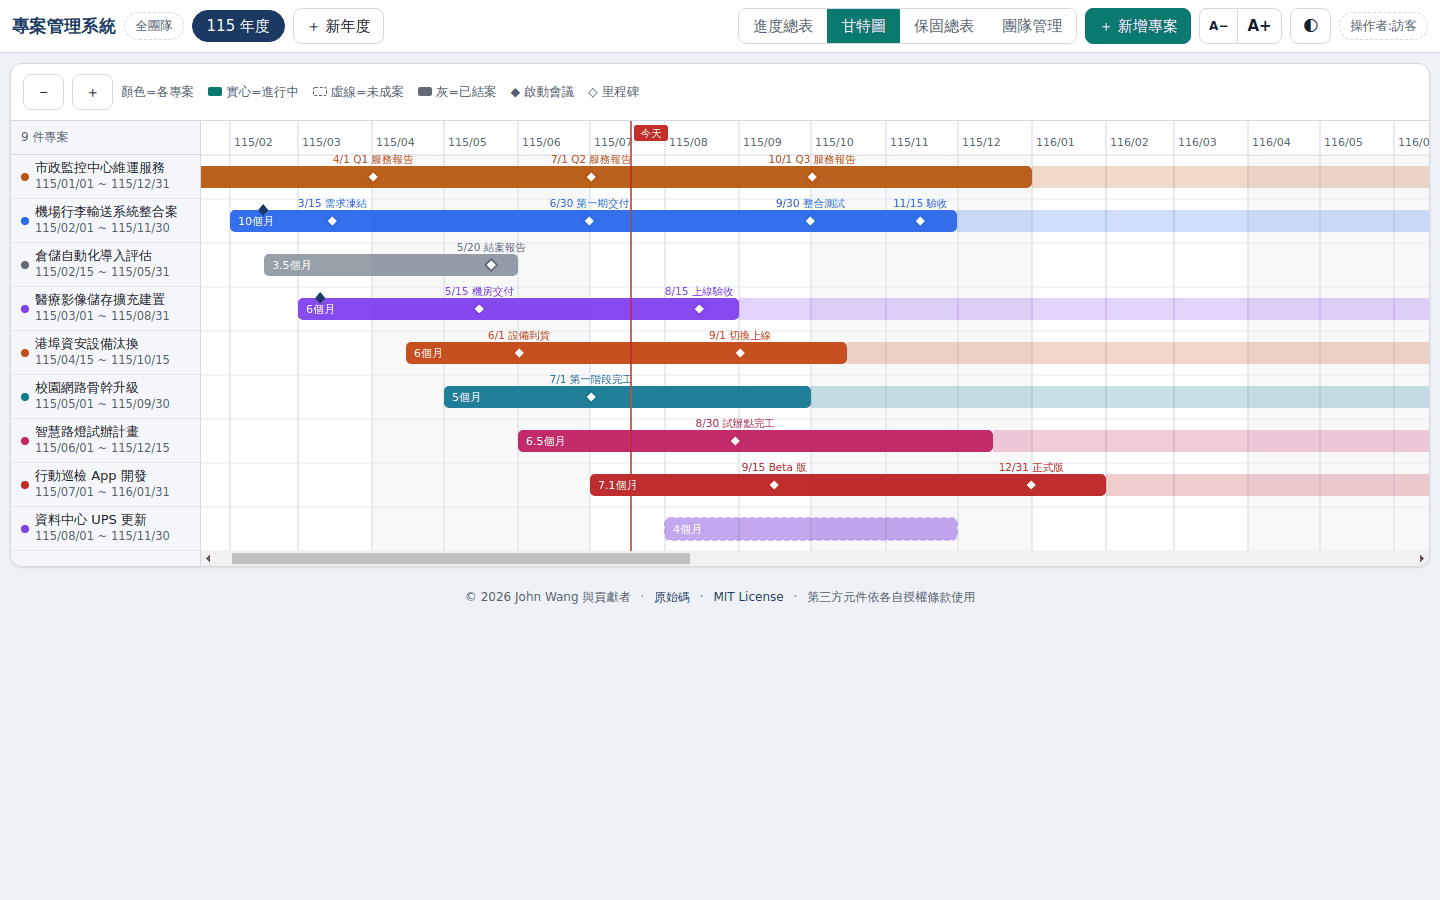
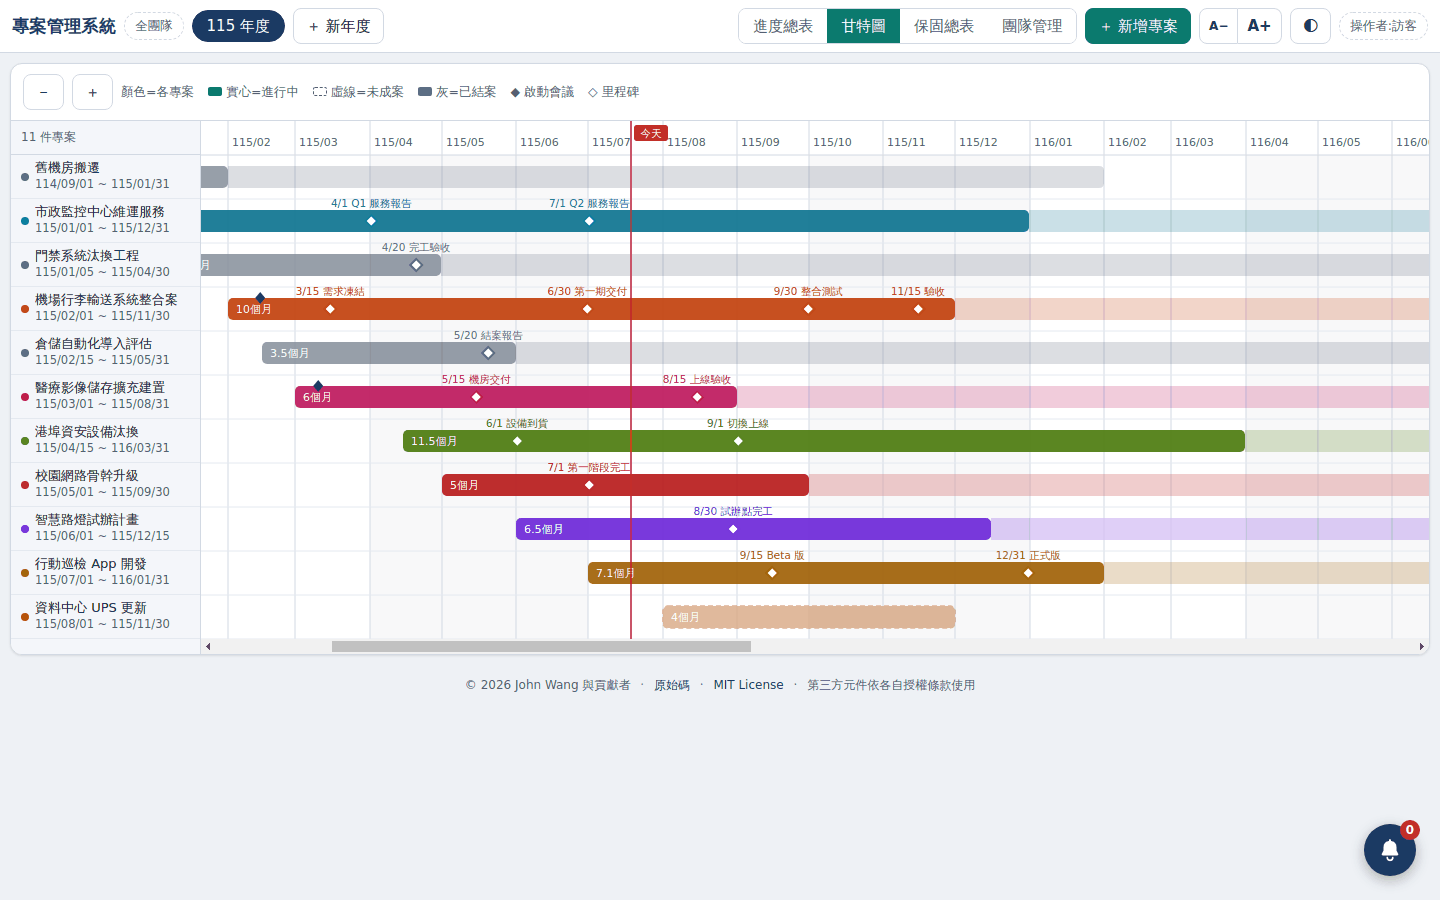
README:補批次匯入說明;截圖補預估認列資料、參與人員去識別化

diff --git a/README.md b/README.md
@@ -18,12 +18,13 @@
 
 ## 系統畫面
 
-> 以下畫面中的專案、契約號、金額與人名皆為示範用的虛構資料。
+> 以下畫面中的專案、契約號與金額皆為示範用的虛構資料；人名一律以去識別化格式（○）呈現。
 
 ### 進度總表
 
 一個年度一頁。專案依狀態分組（進行中／未成案／已結案），欄位涵蓋契約號、SO number、
-履約起迄、工期、參與人員、決標金額與各年度預估認列。日期以民國年顯示。
+履約起迄、工期、參與人員、決標金額與**各年度預估認列**（跨年度專案分年列示）。
+日期以民國年顯示。滑鼠移入表格會浮現「下載範本」按鈕——搭配批次匯入使用（見功能特色）。
 
 ![進度總表](docs/screenshots/table.png)
 
@@ -99,6 +100,7 @@ Copyright © 2026 John Wang and contributors.
 - 系統及專案通知設定
 - Gmail 通知
 - 可拖曳的鈴鐺提醒：未確認訊息閃爍光暈＋循環提示音，每人各自已讀狀態
+- 批次匯入專案：下載 CSV 範本填寫後，拖曳到畫面任意位置即完成匯入（必填驗證、自動去重）
 - Google Drive 版本化資料庫備份
 - 深色與淺色主題
 - 響應式桌面及行動裝置介面